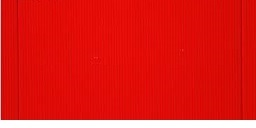
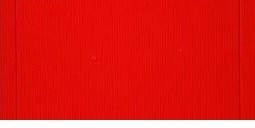
Cylinder texture fixed

diff --git a/LAIGDemoParser/primitives/MyBaselessCylinder.js b/LAIGDemoParser/primitives/MyBaselessCylinder.js
@@ -19,16 +19,16 @@ MyBaselessCylinder.prototype.constructor = MyBaselessCylinder;
 MyBaselessCylinder.prototype.initBuffers = function() {
 
     //Sets the number os sides;
-    var sides = this.slices;
+ 
     var stacks = this.stacks;
 
-    var n = -2 * Math.PI / sides;
+    var n = -2 * Math.PI / this.slices;
 
     this.vertices = [];
     this.normals = [];
     this.indices = [];
     this.texCoords = [];
-    this.initialTexCoords = [];
+ 
 
     var patchLengthx = 1 / this.slices;
     var patchLengthy = 1 / this.stacks;
@@ -42,10 +42,14 @@ MyBaselessCylinder.prototype.initBuffers = function() {
 
 
 
-        for (var i = 0; i < sides; i++) {
+        for (var i = 0; i <= this.slices; i++) {
+			
+			
             this.vertices.push(inc * Math.cos(i * n), inc * Math.sin(i * n), q * this.deltaHeight);
             this.normals.push(Math.cos(i * n), Math.sin(i * n), 0);
-
+			
+		
+			
             this.texCoords.push(xCoord, yCoord);
 
 
@@ -58,29 +62,29 @@ MyBaselessCylinder.prototype.initBuffers = function() {
         yCoord += patchLengthy;
 
     }
+	
+	yCoord =0;
+	
 
 
+	var sides = this.slices +1;
 
-
+	
     for (var q = 0; q < this.stacks; q++) {
-        for (var i = 0; i < sides; i++) {
-           this.indices.push(this.slices * q + i, this.slices * q + i + 1, this.slices * (q + 1) + i);
-            this.indices.push(this.slices * q + i + 1, this.slices * q + i, this.slices * (q + 1) + i);
-            if (i != (this.slices - 1)) {
-                this.indices.push(this.slices * (q + 1) + i + 1, this.slices * (q + 1) + i, this.slices * q + i + 1);
-                this.indices.push(this.slices * (q + 1) + i, this.slices * (q + 1) + i + 1, this.slices * q + i + 1);
-            } else {
-                this.indices.push(this.slices * q, this.slices * q + i + 1, this.slices * q + i);
-                this.indices.push(this.slices * q + i + 1, this.slices * q, this.slices * q + i);
-            }
-
+        for (var i = 0; i < this.slices; i++) {
+          
+			this.indices.push(sides*q+i, sides*(q+1)+i, sides*q+i+1);
+			this.indices.push(sides*q+i+1, sides*(q+1)+i, sides*(q+1)+i+1);
+			
+			this.indices.push(sides*q+i, sides*q+i+1, sides*(q+1)+i);
+			this.indices.push(sides*q+i+1, sides*(q+1)+i+1, sides*(q+1)+i);
+			
         }
 
     }
+	
+	
 
-
-
-    this.initialTexCoords = this.texCoords;
 
     this.primitiveType = this.scene.gl.TRIANGLES;
 
